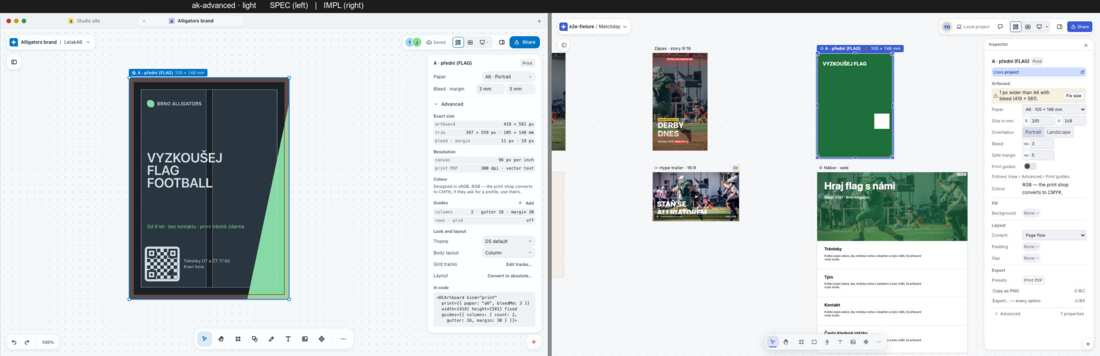
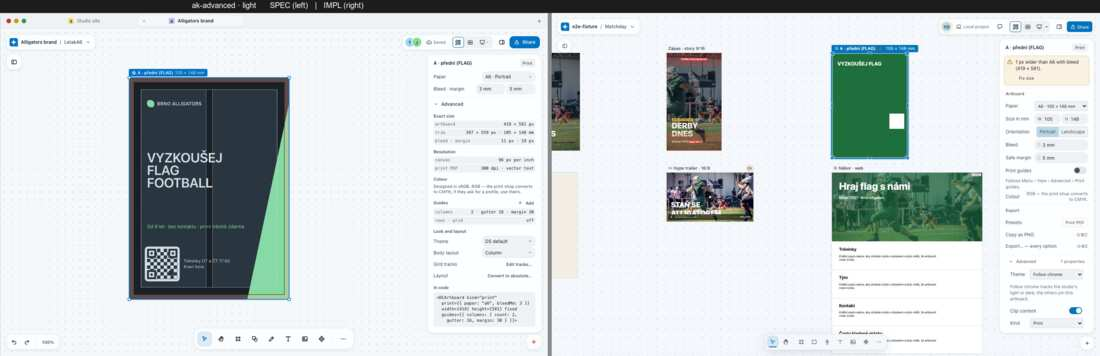
P8-C2 stage D: inspector artboards re-shot for 08 (light + dark) + fix-inspector.md (done vs open)

diff --git a/.ai/plans/notes/v2-evidence/phase8-fidelity/08-artboard-kinds/fix-inspector.md b/.ai/plans/notes/v2-evidence/phase8-fidelity/08-artboard-kinds/fix-inspector.md
@@ -1,0 +1,50 @@
+# P8 stage C · C2-inspector — fix report (done vs open)
+
+Branch `p8-c-inspector` (from feat/maude-v2 0f6b1242b). Stage D: 08 only (light + dark, inspector-bearing artboards re-shot here: ak-web-hug, ak-web-widths, ak-social, ak-safe-zones, ak-print-letak, ak-warnings, ak-advanced, ak-mixed-select, ak-video). Other canvases' pairs (03 04 07 09 12 14) were NOT re-shot — listed open.
+
+## Done (code)
+- Inspector = a 264 px hug-height card (14 `.k-insp`): no title row, no tab strip, no ✕; the dock slot is 264 wide (`app.jsx`, separate commit). Photo / element views are a `.seg` only when both apply; a placed `<img>` opens on Photo; a whole artboard is never a photo.
+- Card anatomy from the kit: label left in body type fg-1 / control right, 32 px rows, 28 px section heads with 0.5 px dividers, kind chip right, crumbs nowrap with a semibold last rung, "Uses system" as the board's pill (icon well + chevron), number fields = bg-3 well, body face, unit inside ("3 mm"), token chips = accent-muted pill.
+- Rows by kind: Layout only on a web page (reads "Top to bottom", flex-col is "Stacked"), Fill only on web/fixed; each object kind opens on its own sections (text Type→Fill, image Image→Adjust, shape Shape→Corners→Fill→Border→Effects, instance blocks only, several boards no Interaction/Position/Type). Position/Size stay after the board's sections for text/image (decision below).
+- Names, not code: tag fallbacks are Frame / Text / Photo / Button (title, crumbs, name tag), a Layers label that is the node's own selector ("h1.dc-text-editing") is ignored, an inlined image is "Photo" (was "2Q==").
+- Colours in words: a literal fill/border/text colour reads as the system's token name (Page, Ink…) or a plain word (White, Dark green); never rgb().
+- Warning = first row of the inspector (block, not a row inside Artboard): warn tint + 1 px warn edge, glyph, sentence, ghost verb under it.
+- ⌘A with nothing / only artboards selected takes every artboard (two-kind inspector reachable); with an object selected it keeps taking that artboard's objects.
+- Add a width = `btn--sm` + glyph opening a menu; Export rows on a 1fr 1fr auto grid, full-width Export button with the download glyph; safe zones: no repeated heading, no footnote under None; W/H row has no second "Size"; instance Component select no longer overflows; print: "Follows Menu › View › Advanced › Print guides", unit after the number.
+
+## Tests (red → green, each reverted once)
+v2-inspector-render (card, photo views), v2-inspector-sections-order (per-kind sections), v2-inspector-artboard (Fill/Layout gating), v2-inspector-model (kind-word titles/crumbs, file names), edit-op-crumbs, v2-colour-words (new), use-keyboard-discipline (selectsArtboardLevel), v2-convert-dialog (warning first), kind-inspector-rows / v2-inspector-artboard (Add a width menu), v2-inspector-safe-zones, v2-inspector-print.
+Known red not mine: `v2-inspector-interaction` "the line under the rows" (string drift in interaction.jsx, untouched by C2); `p8-b2/v2-floating-fit` "sidebar and right panel fill the slot" (regex vs reflowed CSS).
+
+## 08 artboard × theme (after, this branch)
+| id | light | dark |
+|---|---|---|
+| ak-web-hug | fixed (card, rows, Top to bottom, Add a width); select/segment chrome = C1 | fixed (same) |
+| ak-web-widths | fixed (menu); sibling widths not driven | same |
+| ak-social | fixed (rows, no Layout, no heading repeat); Size "Custom" is the fixture | same |
+| ak-safe-zones | inspector fixed; band colours / floating platform list still differ (canvas overlay RC-5 = C5, select = C1) | same |
+| ak-print-letak | fixed (mm, notes, warn row first); switch/seg chrome = C1 | same |
+| ak-warnings | inspector fixed; label mark (16 px filled dot) = C5 | same |
+| ak-advanced | frame re-shot; fold-open step needs the `fold-inspector-toggle` click verified in dark | still differs (inspector closed in the dark run — harness) |
+| ak-mixed-select | light: harness still lands on objects; dark frame invalid (focus in left panel) — needs a re-drive after Esc | invalid |
+| ak-video | still differs: inspector not open with the timeline up (07/C3 owns the island; no "Length" field yet) | same |
+| ak-convert / -after | unreachable: harness step (`insp-ab-preset` select option) timed out — product exists (ConvertDialog) | same |
+| ak-picker*, ak-mixed-fit/filter, ak-print-view, ak-real-* | not C2 (unchanged) | |
+
+## Open (not done)
+1. **Photo inspector for readable-name images**: the photo pipeline is content-addressed end to end (`assets/<sha8>.ext` in `dom-selection.ts:569`, `inspect.ts:315`, `canvas-lib.tsx:3608`, `api.ts` photo-edit sidecar). Mounting it for `assets/IMG_2231.jpg` needs server + canvas-lib work (a name→sha map or widening all five matchers). Proposed split: own task "photo edits keyed by asset id". 12 `ia-photo-inspector` / `ia-photo-steps` stay unreachable meanwhile.
+2. 04 "compact property card in Edit": followed 14 (owner of editing) → full per-kind sections in the hugging card; On click / Border/ Fill rows exist but sit below the fold on a tall button.
+3. 14 finer rows: W/H fields + Clip switch on a web artboard (08 wins: not drawn there), Language row + tie marks (text), Layout "Convert to absolute" folded into Advanced, constraint diagram, free-placement tip card, Align tile, instance Variant chip row, Padding one-row token chip, "Tokens it uses" chips in Advanced, token chips instead of "Bind" (needs a bound system in the fixture).
+4. Multi-artboard inspector values (Preset "Story 9:16", X/Y Mixed, Background swatches) not checked after the ⌘A change.
+5. Video inspector: Length as a field with clock; Sound row says "None yet" while Music holds a song (`video-facts.js` reads `/_api/comp-clips`).
+6. Crop-mode inspector (Image + Adjust only) — sections now match; crop-mode-specific hide of Position not done.
+7. "COMBINE2026" glued text (selection `text`) not reproduced from the code (`shortText` already uses innerText).
+8. Shared-kit items left to C1: native `<select>` appearance, pressed-segment ring, switch knob, `.btn` / ghost button styles (the warn verb and "Add a width" use `btn` classes that C1 styles).
+9. Stage D for 03 (ai-open), 04 (md-edit), 07 (ve-select), 09 (ex-inspector), 12, 14: not re-shot.
+
+## Decisions
+- `decision:maude/v2-c2-inspector-card`: the inspector is a hug-height 264 px card with no tab strip / title / ✕ — 14 `.k-insp` + 08 + 03 critics; rejected: keeping a docked full-height panel with restyled controls.
+- `decision:maude/v2-c2-14-owns-sections`: section heads and per-kind sections follow 14 (owns editing); 08's flat artboard rows only drive WHICH rows exist per kind; 04's compact card is its first rows. Rejected: flat rows for objects.
+- `decision:maude/v2-c2-geometry-after-board-sections`: text and image keep Position/Size after the board's sections (board silent) so numbers stay reachable.
+- `decision:maude/v2-c2-select-all-by-level`: ⌘A selects every artboard when nothing/only artboards are selected, else the artboard's objects. Rejected: a separate chord.
+- `decision:maude/v2-c2-warning-is-a-block`: the artboard warning registers as a top block, not a row in a section.
